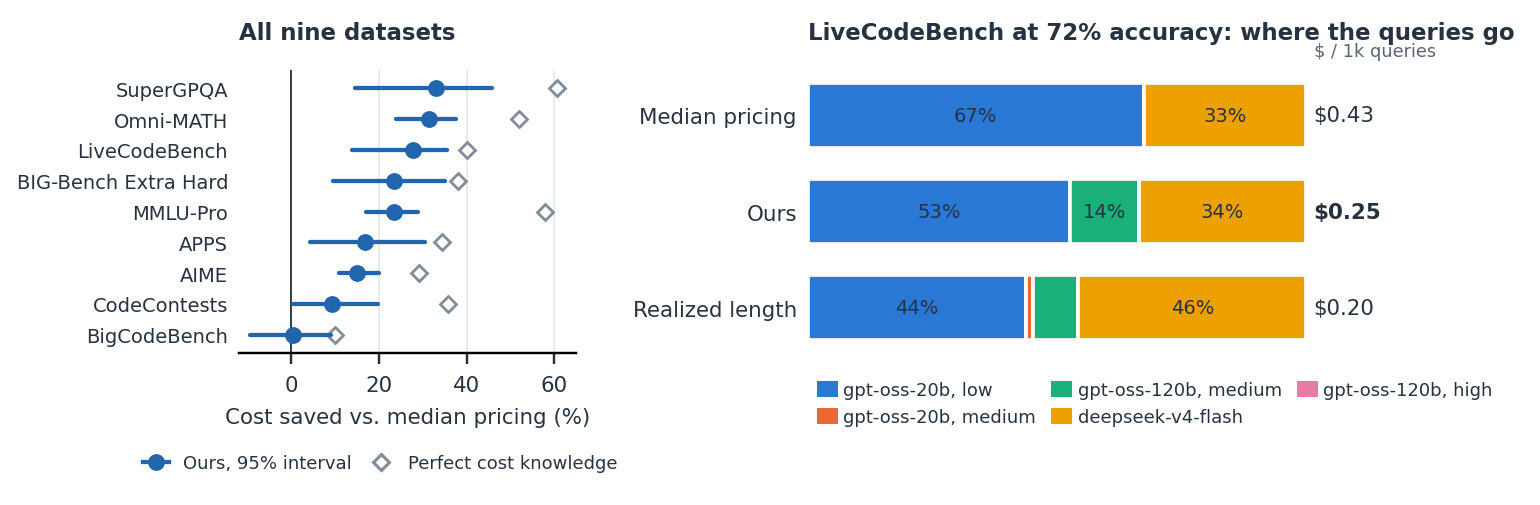
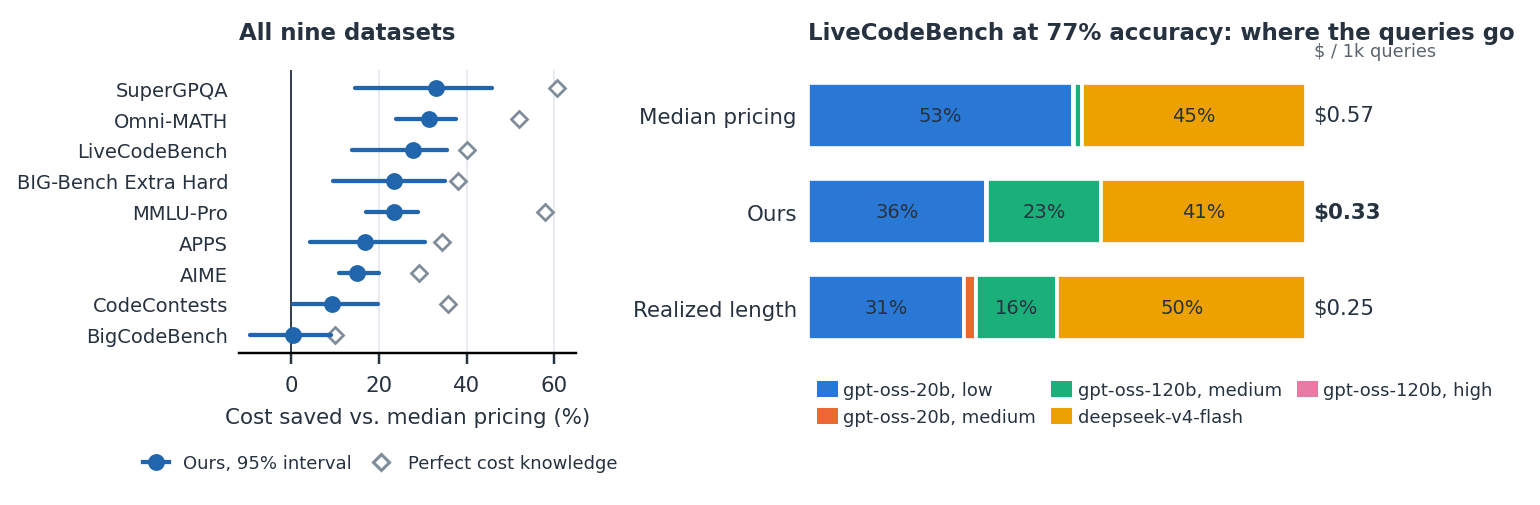
TMLR paper: Figure 1 route shares on LiveCodeBench at 77% (route_snapshot.py); Figure 2's middle arrow at the same accuracy

diff --git a/analysis/cost_headroom/route_snapshot.py b/analysis/cost_headroom/route_snapshot.py
@@ -1,0 +1,23 @@
+"""Figure 1's route-share snapshot at a chosen accuracy (not the middle of the band, as route_shares.py / fig:shares): share of test
+queries per route for median-length pricing, our cost probe and realized length, same success predictions, the paper split.
+The accuracy was chosen from a scan of all nine datasets for a large split between median pricing and ours, close to realized length,
+at a high accuracy (LiveCodeBench, 77% = 86% of deepseek-v4-flash alone).
+Usage: REASON_ROOT=.../reason_pinned RESULT_TAG=_pinned python route_snapshot.py LCB 0.77 -> route_snapshot_pinned.json (merged)
+"""
+import json, sys
+from pathlib import Path
+POOL_, ACC = sys.argv[1], float(sys.argv[2])
+_here = Path(__file__).resolve().parent; sys.argv = ["x", "shares", "ALL"]; __file__ = str(_here / "route_shares.py")
+exec(open(_here / "route_shares.py").read().split("out = {}")[0])
+d = load(POOL_); N = len(d["ids"]); ev = d["ev"]; S, T = view(d, d["tr"]), view(d, np.arange(N))
+tk = {"median": np.repeat(d["med"][None], N, 0), "ours": fit_predict("ours", S, T), "realized": d["L"]}
+Hs = {a: policies(d, d["P"], cost_of(d, x), ev) for a, x in tk.items()}
+lo, hi = max(H[0][1] for H in Hs.values()), min(H[-1][1] for H in Hs.values()); assert lo <= ACC <= hi
+o = {"slots": d["slots"], "accuracy": ACC, "band": [float(lo), float(hi)], "n_test": len(ev)}
+for a, H in Hs.items():
+    c, s = at_accuracy(H, ACC); o[a] = dict(cost_per_1k=float(c * 1000), shares=[float(x) for x in s])
+o["saving_vs_median"] = 1 - o["ours"]["cost_per_1k"] / o["median"]["cost_per_1k"]
+o["capture"] = (o["median"]["cost_per_1k"] - o["ours"]["cost_per_1k"]) / (o["median"]["cost_per_1k"] - o["realized"]["cost_per_1k"])
+outf = _here / "route_snapshot_pinned.json"; res = json.load(open(outf)) if outf.exists() else {}; res[POOL_] = o
+json.dump(res, open(outf, "w"), indent=1)
+print(POOL_, ACC, {a: (round(o[a]["cost_per_1k"], 3), [round(x, 2) for x in o[a]["shares"]]) for a in tk}, "saving", round(o["saving_vs_median"], 3), "capture", round(o["capture"], 2))

diff --git a/paper_tmlr/make_hero_fig.py b/paper_tmlr/make_hero_fig.py
@@ -1,4 +1,4 @@
-"""Figure 1 (breadth + hero). Right: where LiveCodeBench queries go at one matched accuracy (the middle of the shared accuracy band, paper
+"""Figure 1 (breadth + hero). Right: where LiveCodeBench queries go at one matched accuracy (77%, from route_snapshot.py; paper
 split): share of test queries per route under median-length pricing, our cost probes and realized length, with the spend per 1,000
 queries (analysis/cost_headroom/route_shares_pinned.json, as fig:shares). Left: cost saved by ours relative to median pricing on all
 nine datasets, mean over ten training sets with 95% intervals, and the headroom (draws_summary_pinned.json, as the tables).
@@ -12,7 +12,8 @@ import matplotlib.pyplot as plt
 import sys
 
 HERE = Path(__file__).resolve().parent; POOL = sys.argv[1] if len(sys.argv) > 1 else "LCB"
-S = json.load(open(HERE.parent / "analysis/cost_headroom/route_shares_pinned.json"))
+S = json.load(open(HERE.parent / "analysis/cost_headroom/route_shares_pinned.json"))   # middle of the band (fig:shares)
+S.update(json.load(open(HERE.parent / "analysis/cost_headroom/route_snapshot_pinned.json")))  # chosen snapshot (LCB at 77%), route_snapshot.py
 MAIN = json.load(open(HERE.parent / "analysis/cost_headroom/draws_summary_pinned.json"))["draws"]
 INK, MUTED, GRID, SURF = "#263240", "#5A6470", "#E6EBF0", "#FFFFFF"; OURS, HEAD = "#2166AC", "#7F8C99"
 ROUTES = [("oss20lo", "gpt-oss-20b, low", "#2a78d6"), ("oss20md", "gpt-oss-20b, medium", "#eb6834"), ("oss120md", "gpt-oss-120b, medium", "#1baf7a"),

diff --git a/paper_tmlr/make_headline_fig.py b/paper_tmlr/make_headline_fig.py
@@ -33,7 +33,14 @@ for arm, col, lab in (("median", MED, "Median pricing"), ("learned", OURS, "Ours
     c = CUR["curves"][arm]
     a1.scatter(np.array(c["mean_cost_usd"]) * 1000, np.array(c["accuracy"]) * 100, s=1.2, color=col, alpha=.25, lw=0, zorder=2)
     a1.plot(np.array(c["hull_cost_usd"]) * 1000, np.array(c["hull_accuracy"]) * 100, color=col, lw=1.5, label=lab, zorder=3)
-for k in CUR["connectors"]:
+SNAP = {"LCB": .77}.get(POOL)                                                       # Figure 1's snapshot accuracy: the middle arrow
+def _cost_at(arm, y):
+    c = CUR["curves"][arm]; return float(np.interp(y, c["hull_accuracy"], c["hull_cost_usd"]))
+CON = list(CUR["connectors"])
+if SNAP is not None:
+    CON[1] = dict(accuracy=SNAP, ours_cost_usd=_cost_at("learned", SNAP), median_cost_usd=_cost_at("median", SNAP))
+    CON[1]["saved"] = 1 - CON[1]["ours_cost_usd"] / CON[1]["median_cost_usd"]; print("middle arrow", CON[1])
+for k in CON:
     y, x0, x1 = k["accuracy"] * 100, k["median_cost_usd"] * 1000, k["ours_cost_usd"] * 1000
     a1.annotate("", xy=(x1, y), xytext=(x0, y), arrowprops=dict(arrowstyle="-|>", color=INK, lw=.7, mutation_scale=6, shrinkA=0, shrinkB=1), zorder=4)
     a1.text(x0 + .012, y - .6, f"−{k['saved'] * 100:.0f}%", fontsize=6, color=INK, ha="left", va="top")
